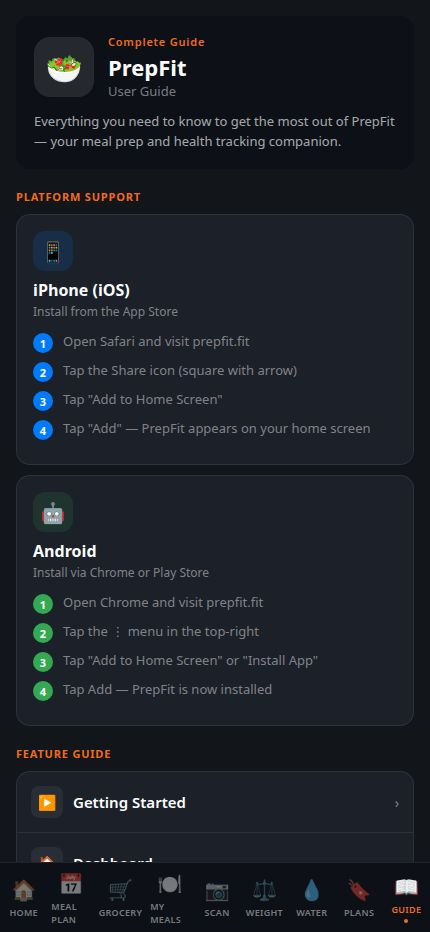
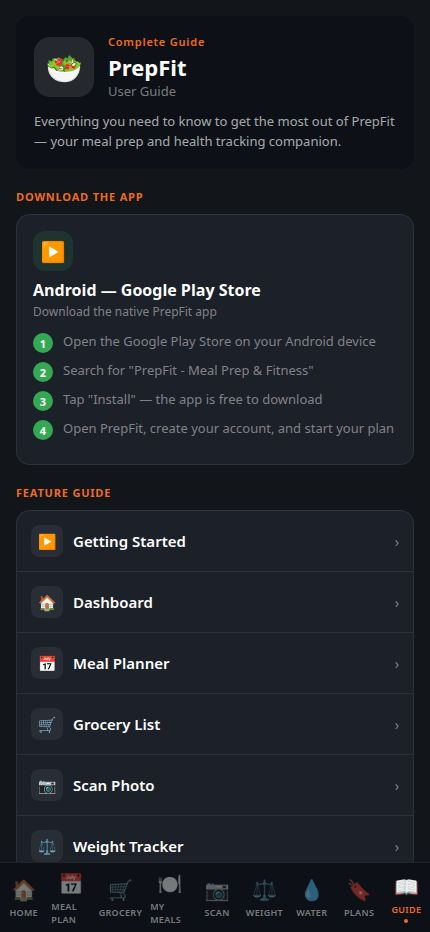
Update user guide to reflect native Android app only
Remove iPhone/iOS references and update installation steps in the user guide and its corresponding HTML mockup to exclusively mention Android and the Google Play Store.

Replit-Commit-Author: Agent
Replit-Commit-Session-Id: 366c8a42-eaa5-40fb-9545-b218c470b2f4
Replit-Commit-Checkpoint-Type: full_checkpoint
Replit-Commit-Event-Id: de07c82d-8da2-4a7e-a6a3-8cd26b03350d
Replit-Commit-Screenshot-Url: https://storage.googleapis.com/screenshot-production-us-central1/840360d6-55f0-4f6a-9af5-ecb5804a7758/366c8a42-eaa5-40fb-9545-b218c470b2f4/VIAqy6X
Replit-Helium-Checkpoint-Created: true

diff --git a/artifacts/meal-prep/public/app-screens.html b/artifacts/meal-prep/public/app-screens.html
@@ -1287,25 +1287,16 @@
       <div class="guide-desc">Everything you need to know to get the most out of PrepFit — your meal prep and health tracking companion.</div>
     </div>
 
-    <div class="guide-section">Platform Support</div>
+    <div class="guide-section">Download the App</div>
     <div class="platform-cards">
       <div class="platform-card">
-        <div class="platform-icon" style="background:rgba(0,122,255,0.15)">📱</div>
-        <div class="platform-name">iPhone (iOS)</div>
-        <div class="platform-sub">Install from the App Store</div>
-        <div class="step-row"><div class="step-num" style="background:#007AFF">1</div><div class="step-text">Open Safari and visit prepfit.fit</div></div>
-        <div class="step-row"><div class="step-num" style="background:#007AFF">2</div><div class="step-text">Tap the Share icon (square with arrow)</div></div>
-        <div class="step-row"><div class="step-num" style="background:#007AFF">3</div><div class="step-text">Tap "Add to Home Screen"</div></div>
-        <div class="step-row"><div class="step-num" style="background:#007AFF">4</div><div class="step-text">Tap "Add" — PrepFit appears on your home screen</div></div>
-      </div>
-      <div class="platform-card">
-        <div class="platform-icon" style="background:rgba(52,168,83,0.15)">🤖</div>
-        <div class="platform-name">Android</div>
-        <div class="platform-sub">Install via Chrome or Play Store</div>
-        <div class="step-row"><div class="step-num" style="background:#34A853">1</div><div class="step-text">Open Chrome and visit prepfit.fit</div></div>
-        <div class="step-row"><div class="step-num" style="background:#34A853">2</div><div class="step-text">Tap the ⋮ menu in the top-right</div></div>
-        <div class="step-row"><div class="step-num" style="background:#34A853">3</div><div class="step-text">Tap "Add to Home Screen" or "Install App"</div></div>
-        <div class="step-row"><div class="step-num" style="background:#34A853">4</div><div class="step-text">Tap Add — PrepFit is now installed</div></div>
+        <div class="platform-icon" style="background:rgba(52,168,83,0.15)">▶</div>
+        <div class="platform-name">Android — Google Play Store</div>
+        <div class="platform-sub">Download the native PrepFit app</div>
+        <div class="step-row"><div class="step-num" style="background:#34A853">1</div><div class="step-text">Open the Google Play Store on your Android device</div></div>
+        <div class="step-row"><div class="step-num" style="background:#34A853">2</div><div class="step-text">Search for "PrepFit - Meal Prep &amp; Fitness"</div></div>
+        <div class="step-row"><div class="step-num" style="background:#34A853">3</div><div class="step-text">Tap "Install" — the app is free to download</div></div>
+        <div class="step-row"><div class="step-num" style="background:#34A853">4</div><div class="step-text">Open PrepFit, create your account, and start your plan</div></div>
       </div>
     </div>
 

diff --git a/artifacts/prepfit-android/app/(tabs)/guide.tsx b/artifacts/prepfit-android/app/(tabs)/guide.tsx
@@ -70,25 +70,13 @@ const ACCORDION_SECTIONS: AccordionSection[] = [
 const PLATFORM_CARDS = [
   {
     icon: "smartphone" as const,
-    title: "iPhone (iOS)",
-    subtitle: "Install from the App Store",
+    title: "Android — Google Play Store",
+    subtitle: "Download the native PrepFit app",
     steps: [
-      "Open Safari and visit prepfit.fit",
-      'Tap the Share icon (square with arrow)',
-      'Tap "Add to Home Screen"',
-      'Tap "Add" — PrepFit appears on your home screen',
-    ],
-    color: "#007AFF",
-  },
-  {
-    icon: "smartphone" as const,
-    title: "Android",
-    subtitle: "Install via Chrome / Play Store",
-    steps: [
-      "Open Chrome and visit prepfit.fit",
-      'Tap the ⋮ menu in the top-right',
-      'Tap "Add to Home Screen" or "Install App"',
-      "Tap Add — PrepFit is now installed",
+      "Open the Google Play Store on your Android device",
+      'Search for "PrepFit - Meal Prep & Fitness"',
+      'Tap "Install" — the app is free to download',
+      "Open PrepFit, create your account, and start your plan",
     ],
     color: "#34A853",
   },
@@ -144,8 +132,8 @@ export default function GuideScreen() {
         </Text>
       </View>
 
-      {/* Platform Support */}
-      <Text style={s.sectionLabel}>Platform Support</Text>
+      {/* Download */}
+      <Text style={s.sectionLabel}>Download the App</Text>
       <View style={s.platformRow}>
         {PLATFORM_CARDS.map((card) => (
           <View key={card.title} style={s.platformCard}>
